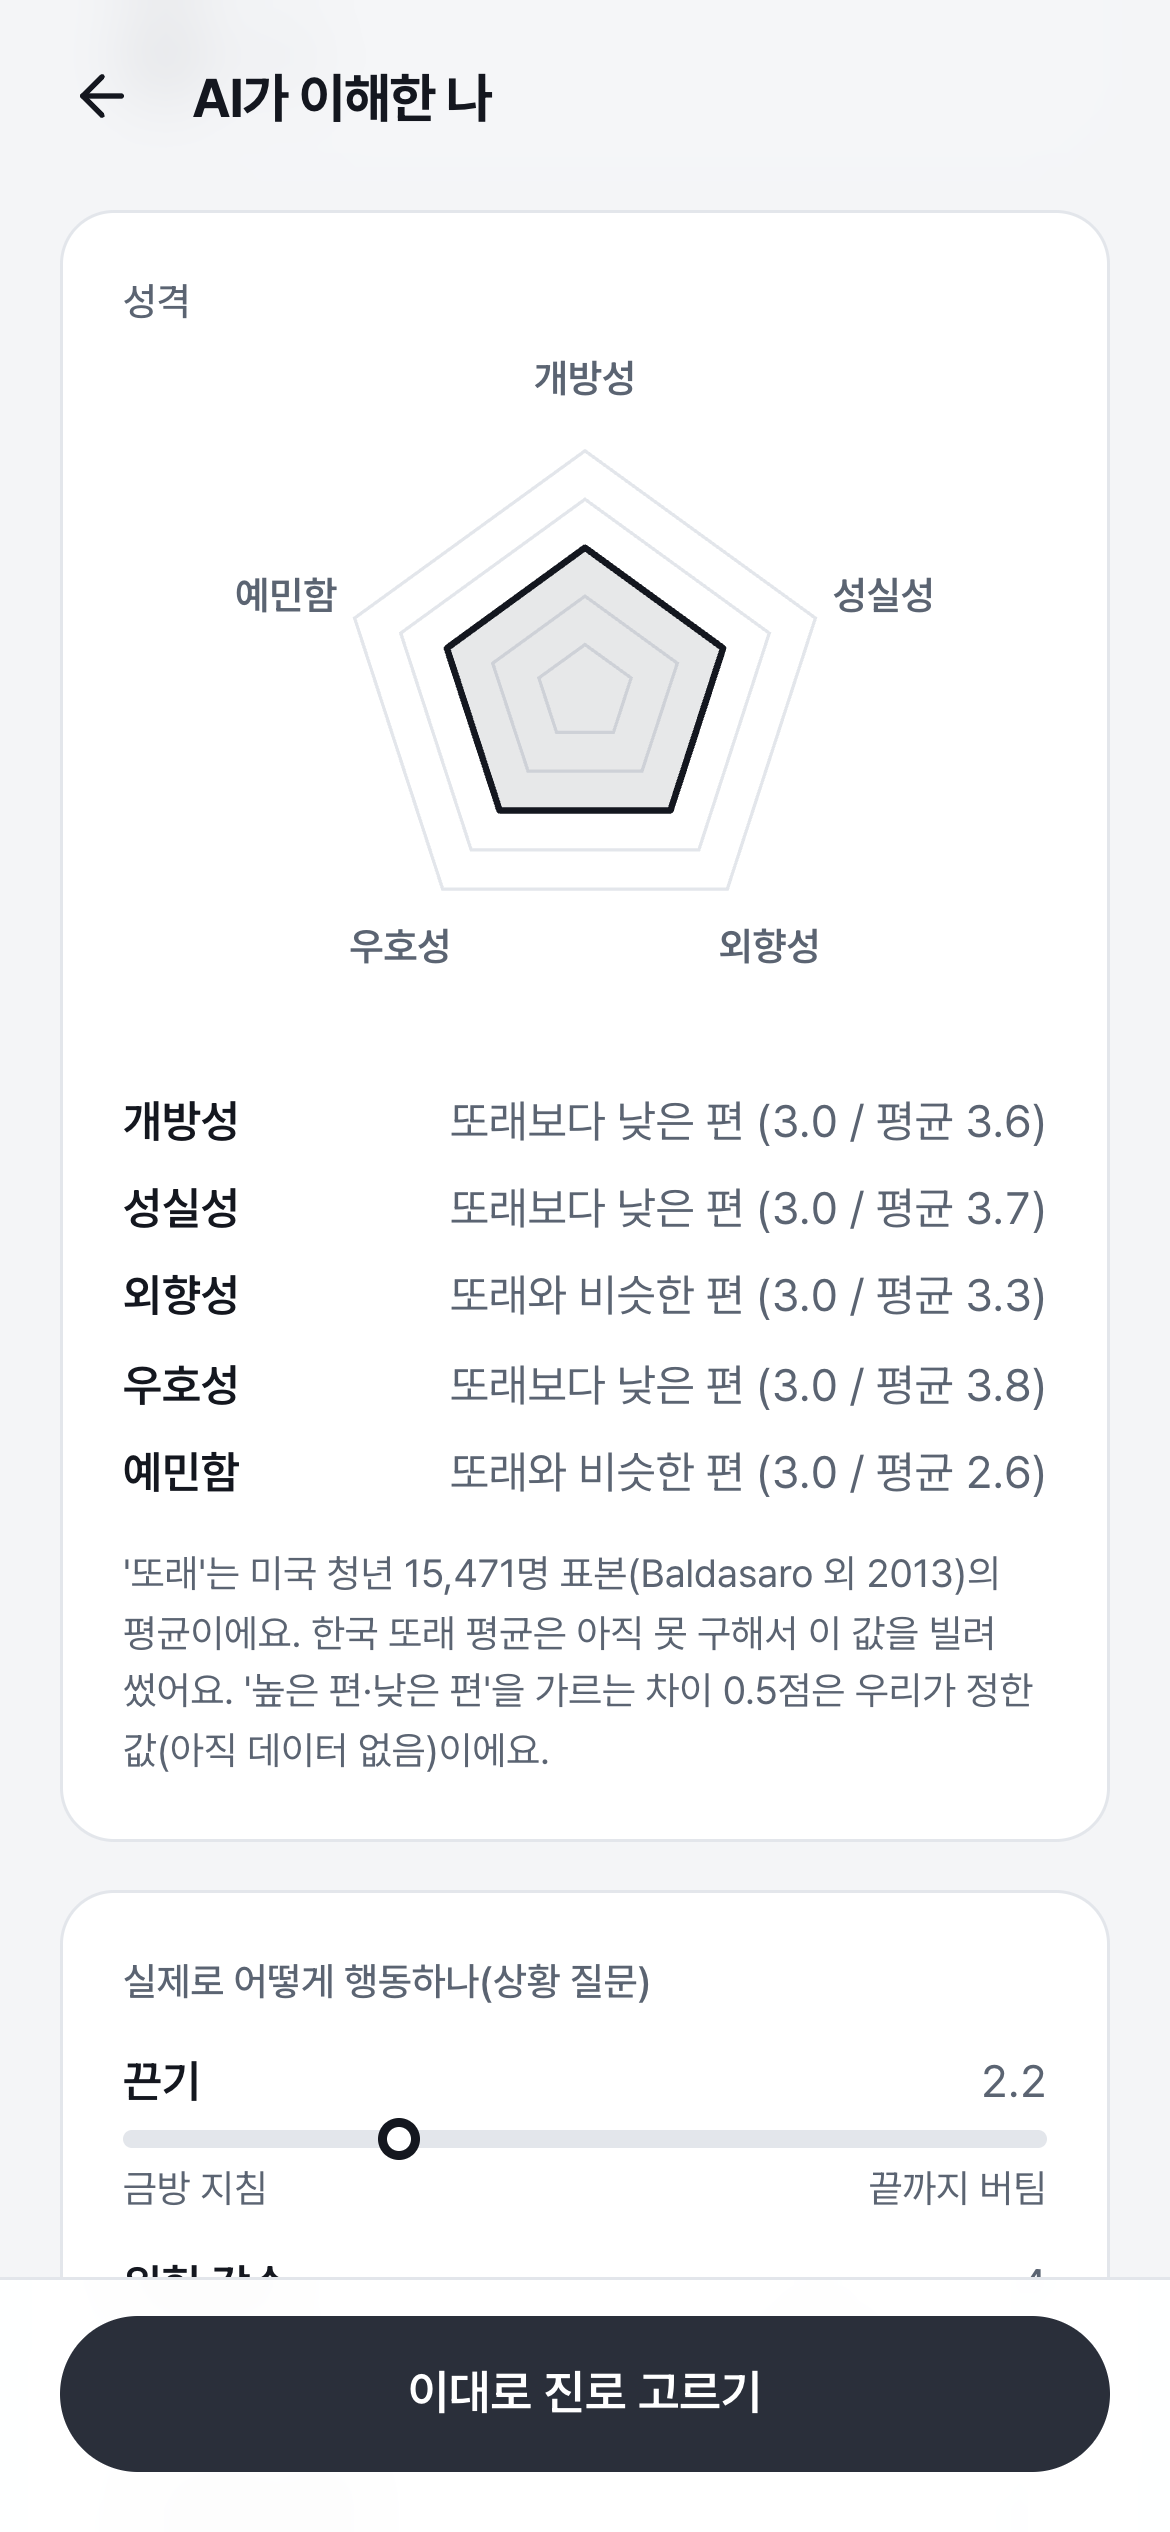
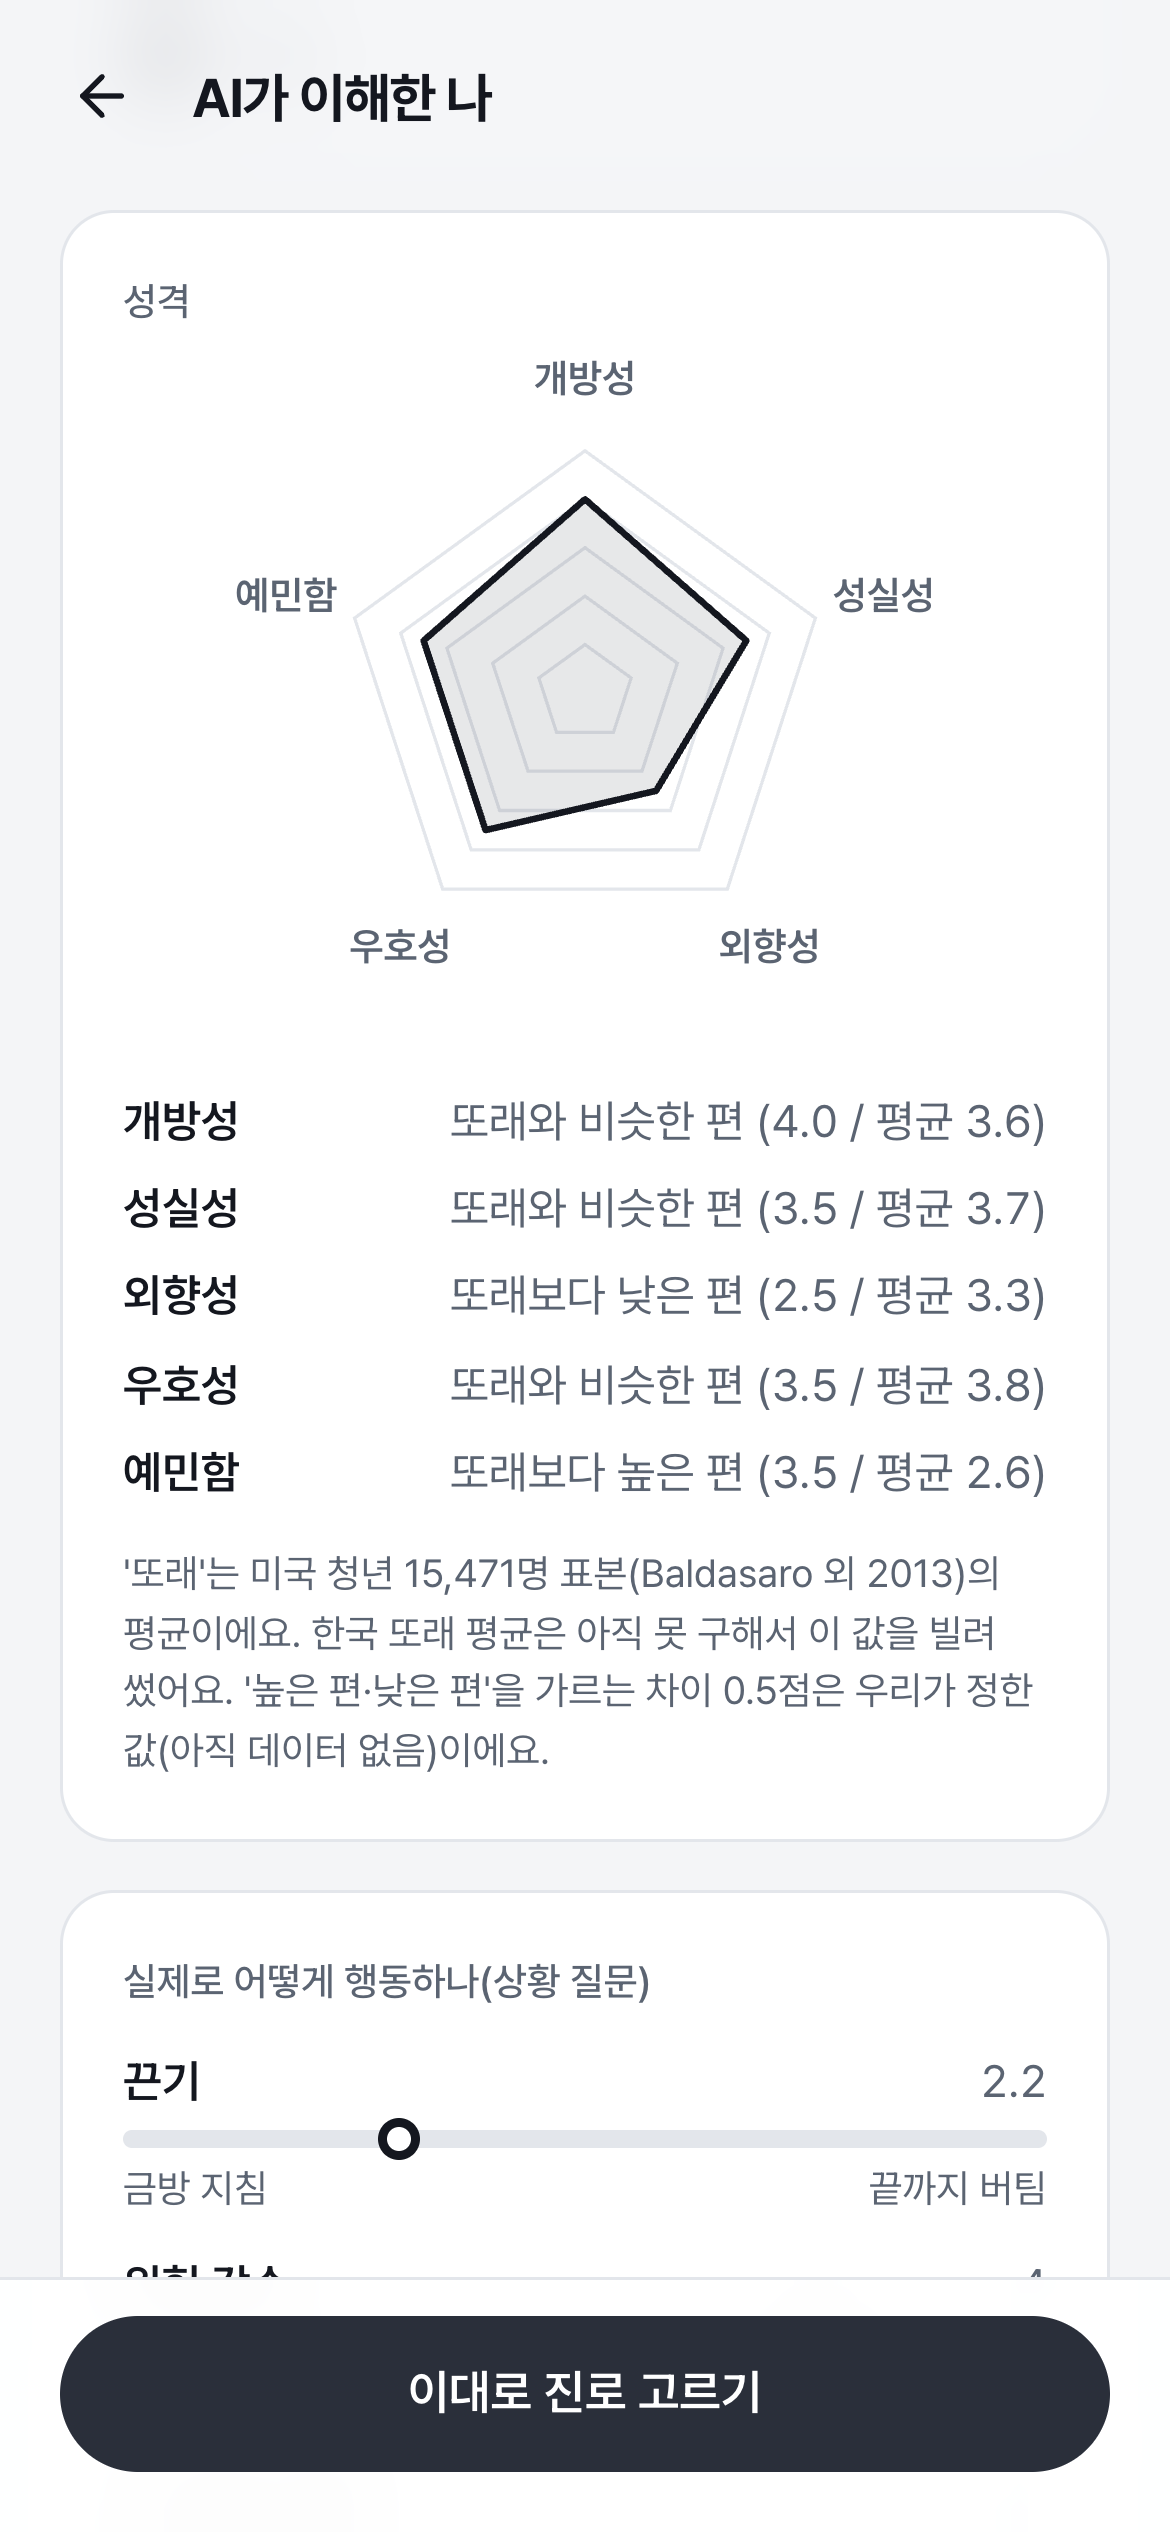
캡처 02~04 다시: 김민준 예시 성격(4·3.5·2.5·3.5·3.5)이 나오게 답한 예시 입력, 목록에 표시

Changed region(s): [[0.3692, 0.1872, 0.6462, 0.3432], [0.4615, 0.4368, 0.5846, 0.5928], [0.6462, 0.4368, 0.6769, 0.468]]

diff --git a/docs/screens/deck/README.md b/docs/screens/deck/README.md
@@ -12,9 +12,9 @@
 | 번호 | 파일 | 인물 | 화면에 나온 핵심 숫자·글 |
 |---|---|---|---|
 | 01 | 01_첫화면 | - | '인터뷰로 시작하기', '예시로 둘러보기' |
-| 02 | 02_깊이고르기 | 검사 다시 입력(아래 주의) | 빠르게 / 표준 / 정밀 / 계속 닮아 가기 |
-| 03 | 03_질문화면_상황질문 | 검사 다시 입력 | 10/13, 상황 질문 3개(대화 흐름 위에 답이 쌓임) |
-| 04 | 04_검사결과 | 검사 다시 입력 | 성격 5요인 그림 + 요인마다 '또래보다 낮은/비슷한 편 (3.0 / 평균 3.6…)', 분신 3개 중 2개 맞힘(찍기 0.8개), '자세히'는 닫힌 채 |
+| 02 | 02_깊이고르기 | 예시 입력(아래 주의) | 빠르게 / 표준 / 정밀 / 계속 닮아 가기 |
+| 03 | 03_질문화면_상황질문 | 예시 입력 | 10/13, 상황 질문 3개(대화 흐름 위에 답이 쌓임) |
+| 04 | 04_검사결과 | 예시 입력 | 개방성 또래와 비슷 (4.0 / 3.6), 성실성 비슷 (3.5 / 3.7), 외향성 낮은 편 (2.5 / 3.3), 우호성 비슷 (3.5 / 3.8), 예민함 높은 편 (3.5 / 2.6). 분신 3개 중 1개 맞힘(찍기 0.8개), '자세히'는 닫힌 채 |
 | 05 | 05_진로고르기 | 김민준 | 추천 목록(첫 화면), '간호' 검색 → 간호사 예상 67% 맞음 |
 | 06 | 06_시뮬레이션_진행중 | 김민준 | 분신 판단 진행 막대 |
 | 07 | 07_시뮬레이션_요약카드 | 김민준 | 가장 흔한 길 한 번의 삶: 취업 2027년 3월, 만족도 67/100, 모은 돈 6,481만원, 연봉 4,134만원 |
@@ -48,7 +48,7 @@
 
 ## 주의
 
-- 02~04는 예시 인물에 검사 화면이 없어서, 새 저장소에서 '김민준 / 컴퓨터모바일융합과'를 직접 입력해 빠르게 모드로 답했다. 성격 점수(전부 3.0)와 분신 점수(3개 중 2개)는 예시 인물 파일(분신 3개 중 1개)과 다르다. 이 입력은 가상 값이고 요약 AI(/api/profile) 1번에 보내졌다.
+- 02~04는 **예시 입력**이다. 예시 인물에 검사 화면이 없어서, 새 저장소에서 '김민준 / 컴퓨터모바일융합과'를 직접 입력해 빠르게 모드로 답했다. 성격 20문항은 예시 인물 파일의 성격(개방 4, 성실 3.5, 외향 2.5, 친화 3.5, 신경 3.5)이 그대로 나오게 골랐고, 가치관(안정·성장·돈·여유)·전문대·정보처리산업기사도 같게 넣었다(정보처리기능사는 자격증 목록 앞 6개에 없어 빠짐). 상황 질문 답과 병역(해당없음, 파일은 군필)은 파일과 다를 수 있다. 분신 점수는 3개 중 1개로 파일과 같지만, 채점 문항이 같은지는 확인하지 않았다. 이 입력은 가상 값이고 요약 AI(/api/profile)에 1번 보내졌다.
 - 23의 모의고사 점수는 화면을 보이려고 넣은 가상 값이다(이 기기에만 저장).
 - 31 PDF는 같은 장 안에 '가정값'과 '우리가 정한 값'이 섞여 나온다(리포트 화면은 '우리가 정한 값'). 코드 동결 중이라 안 고쳤다.
 - 32는 시연용(바로 함)이라 본인 일치율이 실제보다 높게 나올 수 있다고 화면에 적혀 있다. 다시 살아 보기 숫자는 전후 같다.
